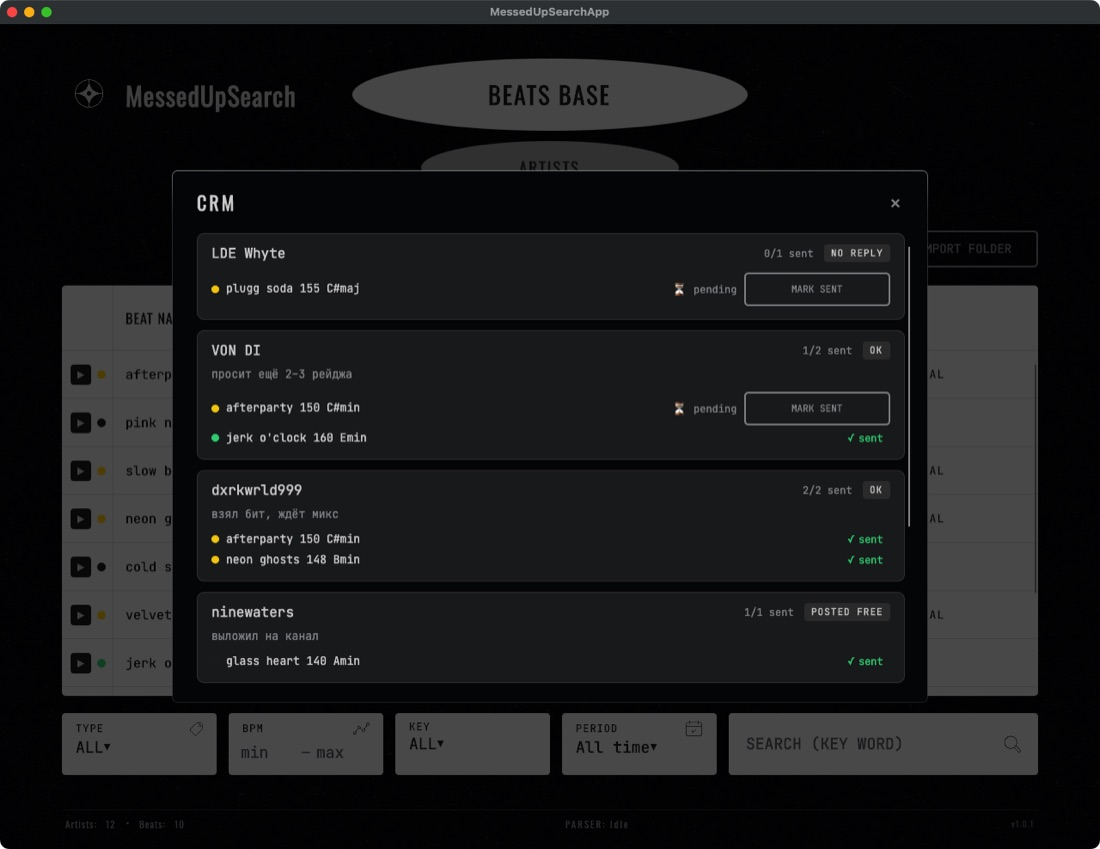
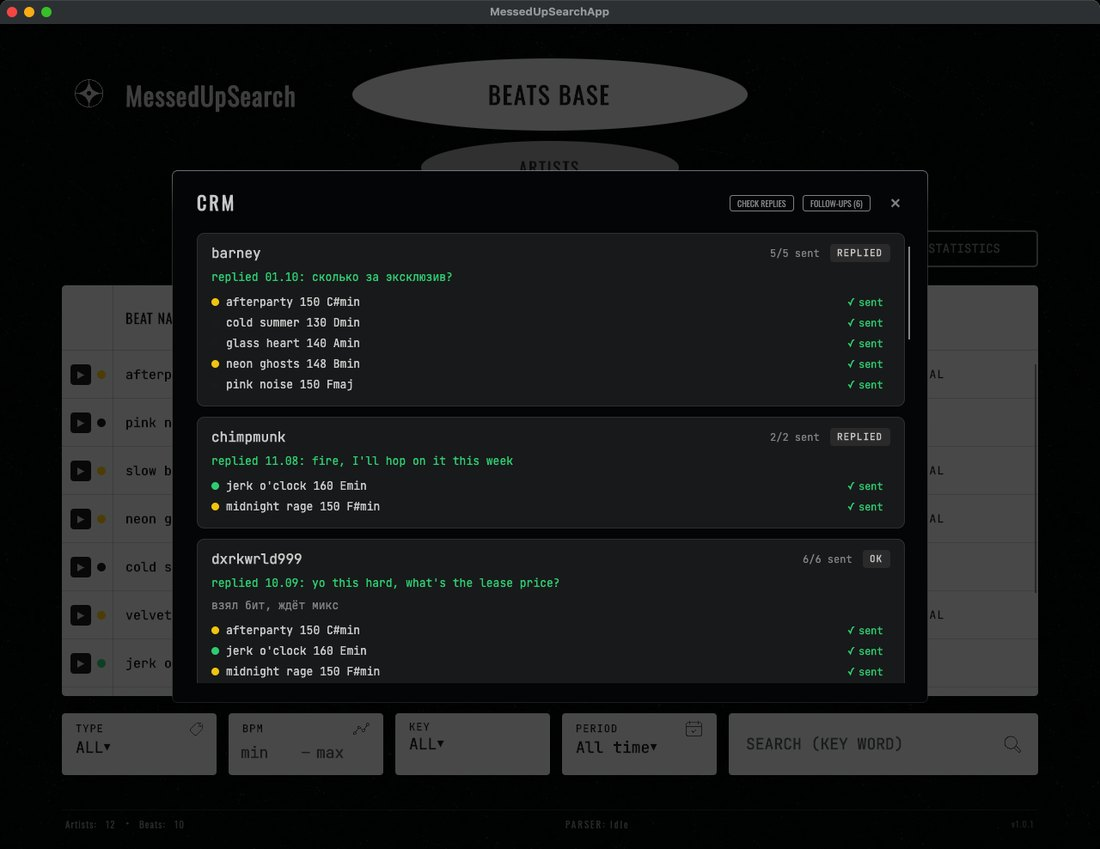
README 1.1: рассылка со своей почты, живая CRM, статистика и «Сегодня» — тексты и скриншоты
Скриншоты сняты на демо-базе с синтетической историей рассылки (адреса только в домене .example).
Сцена readme-mail для кадра рассылки.

diff --git a/MessedUpSearchA/Services/UiScenes.cs b/MessedUpSearchA/Services/UiScenes.cs
@@ -178,6 +178,23 @@ public static class UiScenes
                 DispatcherTimer.RunOnce(() => main.DeclineDawCommand.Execute(null), TimeSpan.FromSeconds(1.2));
                 break;
 
+            // Рассылка для README: бит, который уходил реже всех, получатели — кому можно писать,
+            // плюс по примеру «нет почты» и «писал недавно».
+            case "readme-mail":
+                using (var db = new Data.AppDbContext())
+                {
+                    var readmeBeat = db.Beats.ToList()
+                        .OrderBy(b => db.OutgoingMails.Count(m => m.BeatId == b.Id)).First();
+                    var recent = DateTime.Now.AddDays(-7).ToString("yyyy-MM-dd HH:mm");
+                    var recentlyMailed = db.OutgoingMails.Where(m => string.Compare(m.SentAt, recent) > 0 || m.BeatId == readmeBeat.Id)
+                        .Select(m => m.ArtistId).ToHashSet();
+                    var free = db.Artists.Where(a => a.Email != "").ToList().Where(a => !recentlyMailed.Contains(a.Id)).Take(4).Select(a => a.Id);
+                    var noMail = db.Artists.Where(a => a.Email == "").Select(a => a.Id).Take(1);
+                    var busy = db.Artists.ToList().Where(a => recentlyMailed.Contains(a.Id) && a.Email != "").Select(a => a.Id).Take(1);
+                    main.MailVm.Open(readmeBeat.Id, free.Concat(noMail).Concat(busy).ToList());
+                }
+                break;
+
             case "stats":
                 main.StatsVm.Open();
                 break;

diff --git a/README.md b/README.md
@@ -13,7 +13,7 @@
   <img src="https://img.shields.io/github/downloads/fewvar/MessedUPSearch/total?style=flat-square&color=1a1a1a&label=%D1%81%D0%BA%D0%B0%D1%87%D0%B8%D0%B2%D0%B0%D0%BD%D0%B8%D0%B9" alt="скачиваний">
 </p>
 
-Приложение для битмейкера: все биты в одной таблице, база андеграунд-артистов, учёт того, кому что отправлено, — и подбор артистов, которым можно предложить бит, **по его звучанию**.
+Приложение для битмейкера: все биты в одной таблице, база андеграунд-артистов, подбор артистов **по звучанию бита**, рассылка со своей почты и CRM, которая сама следит за ответами.
 
 <p align="center">
   <a href="https://github.com/fewvar/MessedUPSearch/releases/latest/download/MessedUpSearch.app.zip"><b>Скачать для macOS</b></a>
@@ -28,7 +28,7 @@
 Открой бит, нажми **АНАЛИЗ** — через секунду приложение покажет:
 
 - **«звучит как»** — трёх крупных артистов, на чей стиль похож бит;
-- **кому предложить** — десять андеграунд-артистов (от 1 000 до 300 000 прослушиваний) из базы на 650+ рэперов с SoundCloud и Audius. У каждого: ▶ послушать тот его трек, что **ближе всего к твоему биту** — сразу слышно, почему он в списке; ＋ добавить к себе в базу; ↗ открыть профиль и написать.
+- **кому предложить** — десять андеграунд-артистов (от 1 000 до 300 000 прослушиваний) из базы на 650+ рэперов с SoundCloud и Audius. У каждого: ▶ послушать тот его трек, что **ближе всего к твоему биту** — сразу слышно, почему он в списке; ＋ добавить к себе в базу; ↗ открыть профиль. Отметь подходящих галочками — и разошли бит им всем сразу.
 
 <p align="center"><img src="docs/ru-analyze.jpg" alt="Анализ бита" width="90%"></p>
 
@@ -58,19 +58,44 @@
   <img src="docs/ru-parser.jpg" alt="Парсер" width="49%">
 </p>
 
-## Кому что отправлено
+## Рассылка со своей почты
 
-- Привязывай бит к одному или нескольким артистам прямо в карточке бита.
-- **CRM** показывает всех, с кем идёт работа: статус (не ответил / ок / выложил фри), заметки, какие биты уже отправлены, а какие ждут.
-- Привязал бит, но не отправил? Через заданное число дней приложение напомнит при запуске.
+- Почта артиста, Telegram и другой контакт — в карточке. Кнопка «Найти в профиле» достаёт контакты из описания на SoundCloud и Audius (даже «name (at) gmail (dot) com») — в карточку они попадают только по твоему клику.
+- **Разослать** бит можно прямо из его карточки или галочками из выдачи анализа. Письма уходят с твоего ящика (Gmail, Яндекс, Mail.ru, iCloud или любой другой), со ссылкой на бит, по одному раз в 20–40 секунд и не больше лимита в сутки — чтобы ящик не приняли за спамера. Рассылка идёт в фоне, окно можно закрыть.
+- Шаблоны писем с подстановками (`{artist}`, `{beat}`, `{bpm}`, `{key}`, `{link}`, `{my_name}`) и предпросмотр на каждом артисте до отправки.
+- Защита от спама: кому этот бит уже уходил, кому писал меньше недели назад и кто не отвечает на три письма подряд — сняты с галочки, с объяснением почему.
+- **Оживить** — нейросеть по твоему ключу (Groq, OpenRouter или любой OpenAI-совместимый сервер) переписывает письмо под каждого артиста: его ник, жанр, один трек. Выдумывать факты ей запрещено, ссылка на бит проверяется — что не прошло проверку, уходит шаблоном.
+- Пароль почты и ключ нейросети хранятся в системной связке ключей (Keychain / диспетчер учётных данных Windows), а не в файле настроек.
+
+<p align="center"><img src="docs/ru-mail.jpg" alt="Рассылка" width="90%"></p>
+
+## Живая CRM
+
+- Каждое письмо отмечается само: какой бит, кому, когда, каким шаблоном.
+- Раз в несколько минут приложение смотрит входящие и находит ответы артистов — в CRM появляется «ответил» и первая строка ответа. Остальная почта не читается.
+- Нет ответа неделю (срок настраивается) — **Фоллоу-апы** одной кнопкой: напоминание уходит в ту же переписку, одно на бит.
+- Привязал бит вручную, но не отправил — приложение напомнит.
+- Открытия писем не отслеживаются: для этого нужен свой сервер, а письма уходят напрямую с твоей почты.
 
 <p align="center"><img src="docs/ru-crm.jpg" alt="CRM" width="90%"></p>
+
+## Статистика и «Сегодня»
+
+- **Статистика** за неделю, месяц, три или всё время: процент ответов по шаблонам, жанрам битов, дням и часам отправки, через сколько отвечают, на какие биты отвечают чаще, какие артисты отвечают (жанр, прослушивания).
+- **Сегодня** — подсказки на день, только про биты и отправки: в какое время ты обычно делаешь биты, на какой жанр и темп отвечают чаще, когда лучше рассылать, что лежит неотправленным и кому пора напомнить. С ключом нейросети — совет парой фраз; в неё уходят только эти цифры, без почт и имён.
+- По желанию — учёт сессий в DAW (FL Studio, Ableton, Logic и другие): раз в минуту приложение смотрит, открыта ли DAW, и запоминает только интервалы вроде «FL Studio 14:05–16:40». Без заголовков окон и названий проектов, только на твоём компьютере, стирается одной кнопкой. Включается только с твоего согласия — и вместе с ним иконка в трее и запуск с системой, чтобы ответы и рассылка работали при закрытом окне.
+
+<p align="center">
+  <img src="docs/ru-stats.jpg" alt="Статистика" width="49%">
+  <img src="docs/ru-today.jpg" alt="Сегодня" width="49%">
+</p>
 
 ## Мелочи
 
 - Русский и английский интерфейс, переключается сразу, без перезапуска.
 - Плавные анимации по принципам Apple и несколько тихих звуков (анализ готов, бит отправлен, ★, парсер закончил) — и то и другое выключается в настройках; системное «Уменьшить движение» учитывается.
-- Все данные хранятся локально на твоём компьютере. В сеть приложение ходит только за поиском артистов, их треками для плеера и один раз — за базой андеграунд-артистов.
+- Все данные хранятся локально на твоём компьютере. В сеть приложение ходит только за поиском артистов, их треками для плеера, один раз — за базой андеграунд-артистов, а ещё — в твою почту и к нейросети, если ты их подключил.
+- Кнопка «Сообщить о проблеме» в настройках собирает письмо с версией и хвостом лога — отправляешь его сам из своей почтовой программы.
 
 <p align="center"><img src="docs/ru-settings.jpg" alt="Настройки" width="70%"></p>
 

diff --git a/README.en.md b/README.en.md
@@ -13,7 +13,7 @@
   <img src="https://img.shields.io/github/downloads/fewvar/MessedUPSearch/total?style=flat-square&color=1a1a1a" alt="downloads">
 </p>
 
-An app for beatmakers: all your beats in one table, a roster of underground artists, a record of who got what — and artists to pitch a beat to, picked **by how the beat sounds**.
+An app for beatmakers: all your beats in one table, a roster of underground artists, artists picked **by how the beat sounds**, pitching from your own email and a CRM that tracks replies by itself.
 
 <p align="center">
   <a href="https://github.com/fewvar/MessedUPSearch/releases/latest/download/MessedUpSearch.app.zip"><b>Download for macOS</b></a>
@@ -28,7 +28,7 @@ An app for beatmakers: all your beats in one table, a roster of underground arti
 Open a beat, hit **ANALYZE** — a second later the app shows:
 
 - **"sounds like"** — three big artists whose style the beat resembles;
-- **who to pitch** — ten underground artists (1,000 to 300,000 plays) from a base of 650+ rappers on SoundCloud and Audius. Each one has ▶ play the track of theirs that is **closest to your beat** — you hear right away why they made the list; ＋ add to your roster; ↗ open the profile to reach out.
+- **who to pitch** — ten underground artists (1,000 to 300,000 plays) from a base of 650+ rappers on SoundCloud and Audius. Each one has ▶ play the track of theirs that is **closest to your beat** — you hear right away why they made the list; ＋ add to your roster; ↗ open the profile. Tick the ones that fit and pitch the beat to all of them at once.
 
 <p align="center"><img src="docs/en-analyze.jpg" alt="Beat analysis" width="90%"></p>
 
@@ -58,19 +58,44 @@ Everything the analysis finds is saved: an artist's card shows which of your bea
   <img src="docs/en-parser.jpg" alt="Parser" width="49%">
 </p>
 
-## Who got what
+## Pitching from your own email
 
-- Link a beat to one or more artists right from the beat card.
-- The **CRM** shows everyone you're working with: status (no reply / ok / posted free), notes, which beats were sent and which are still waiting.
-- Linked a beat but never sent it? After a set number of days the app reminds you on startup.
+- The artist card has email, Telegram and another contact. "Find in profile" pulls contacts from the SoundCloud and Audius description (even "name (at) gmail (dot) com") — they go into the card only when you click.
+- **Pitch** a beat right from its card or from the analysis results with checkboxes. Emails go out from your own mailbox (Gmail, Yandex, Mail.ru, iCloud or any other), with a link to the beat, one every 20–40 seconds and no more than a daily limit — so your mailbox isn't flagged as spam. Pitching runs in the background, you can close the window.
+- Email templates with placeholders (`{artist}`, `{beat}`, `{bpm}`, `{key}`, `{link}`, `{my_name}`) and a preview for every artist before sending.
+- Spam protection: artists who already got this beat, who you wrote to less than a week ago, or who ignored three emails in a row are unticked, with the reason shown.
+- **Bring to life** — AI with your own key (Groq, OpenRouter or any OpenAI-compatible server) rewrites the email for each artist: their nickname, genre, one track. It is told not to invent facts and the beat link is checked — anything that fails goes out as the template.
+- The email password and the AI key live in the system keychain (Keychain / Windows Credential Manager), not in the settings file.
+
+<p align="center"><img src="docs/en-mail.jpg" alt="Pitching" width="90%"></p>
+
+## A CRM that keeps itself
+
+- Every email is logged automatically: which beat, to whom, when, which template.
+- Every few minutes the app checks your inbox for artists' replies — the CRM shows "replied" and the first line. The rest of your mail is not read.
+- No reply for a week (configurable) — **Follow-ups** in one click: the reminder goes into the same thread, one per beat.
+- Linked a beat by hand but never sent it — the app reminds you.
+- Email opens are not tracked: that needs a server of its own, and emails go straight from your mailbox.
 
 <p align="center"><img src="docs/en-crm.jpg" alt="CRM" width="90%"></p>
+
+## Statistics and "Today"
+
+- **Statistics** for a week, a month, three months or all time: reply rate by template, beat genre, day and hour sent, how fast artists reply, which beats get replies, which artists reply (genre, plays).
+- **Today** — tips for the day, strictly about beats and pitching: when you usually make beats, which genre and tempo get more replies, when to send, what's sitting unsent and who needs a follow-up. With an AI key — a two-sentence piece of advice; only these numbers are sent to it, no emails or names.
+- Optional DAW session tracking (FL Studio, Ableton, Logic and others): once a minute the app checks whether a DAW is in front and keeps only intervals like "FL Studio 14:05–16:40". No window titles or project names, only on your computer, erased with one button. It's on only with your consent — together with a tray icon and launch with the system, so replies and pitching keep working with the window closed.
+
+<p align="center">
+  <img src="docs/en-stats.jpg" alt="Statistics" width="49%">
+  <img src="docs/en-today.jpg" alt="Today" width="49%">
+</p>
 
 ## Small things
 
 - Russian and English interface, switches instantly, no restart.
 - Smooth animations following Apple's motion principles and a few quiet sounds (analysis done, beat sent, ★, parser finished) — both can be turned off in Settings; the system Reduce Motion setting is respected.
-- All data stays on your computer. The app only goes online to search for artists, stream their tracks in the player and, once, to fetch the underground artist base.
+- All data stays on your computer. The app only goes online to search for artists, stream their tracks in the player, once to fetch the underground artist base — and to your mailbox and the AI, if you connect them.
+- "Report a problem" in Settings drafts an email with the version and the log tail — you send it yourself from your mail app.
 
 <p align="center"><img src="docs/en-settings.jpg" alt="Settings" width="70%"></p>
 
